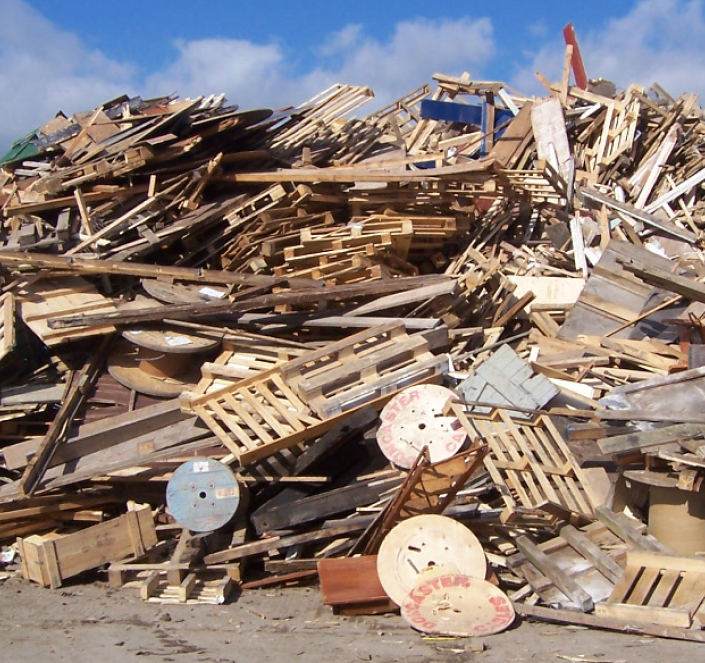
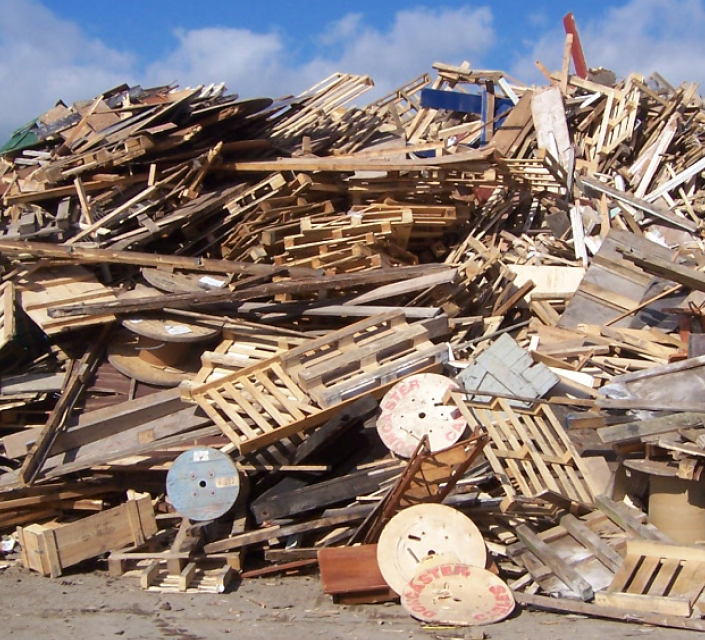
home/fundadores

diff --git a/site/src/pages/home/index.js b/site/src/pages/home/index.js
@@ -47,6 +47,7 @@ export default function Home() {
                 </div>
             </div>
 
+            <div className="linha"></div>
             <div className="desperdicio-de-madeira">
 
                 <div className="info">
@@ -60,6 +61,126 @@ export default function Home() {
                 <div className="image">
                     <img src="/assets/images/entulho.png" alt="" />
                 </div>
+
+            </div>
+            <div className="linha"></div>
+
+            <div className="cards-empresa">
+
+                <div className="madeiraRenovavel-Design">
+                    <div className="card-part">
+                        <img src="/assets/images/madeira-eco.png" alt="" />    
+                        <h1>Madeira Renovável</h1>
+                        <p>Utilizamos madeiras provenientes de demolições, sobras de produção ou móveis antigos que podem ser reutilizados.</p>
+                    </div>
+
+                    <div className="card-part">
+                        <img src="/assets/images/troncos.png" alt="" />    
+                        <h1>Design Sustenável</h1>
+                        <p>Desenvolvemos móveis com design sustentável, levando em consideração a durabilidade, a facilidade de manutenção e a possibilidade de desmontagem para reciclagem futura.</p>
+                    </div>
+                </div>
+
+                <div className="projetos-visao-certificacoes">
+                    <div>
+                        <img src="/assets/images/florestasPlantadas.png" alt="" />
+                        <h1>Projetos Concluídos:</h1>
+                        <p>Ao longo dos anos, tivemos o privilégio de participar de diversos projetos emocionantes, ajudando nossos clientes a transformarem suas visões em realidade. Nossos produtos de madeira sustentável foram utilizados em residências, escritórios, estabelecimentos comerciais e espaços públicos, adicionando elegância e funcionalidade aos ambientes.</p>
+                    </div>
+
+                    <div>
+                        <img src="/assets/images/troncos2.png" alt="" />
+                        <h1>Visão Geral da Empresa:</h1>
+                        <p>Somos uma loja de madeira sustentável comprometida em fornecer produtos de alta qualidade, ao mesmo tempo em que promovemos a preservação das florestas e a conscientização ambiental. Nossa missão é oferecer soluções de madeira sustentável para clientes que valorizam a beleza natural, a durabilidade e a responsabilidade ambiental.</p>
+                    </div>
+
+                    <div>
+                        <img src="/assets/images/casa.png" alt="" />
+                        <h1>Certificações e Parcerias:</h1>
+                        <p>Somos orgulhosos detentores das certificações FSC e PEFC, que atestam a origem sustentável da nossa madeira. Além disso, mantemos parcerias estratégicas com organizações comprometidas com a preservação florestal e a promoção da sustentabilidade, fortalecendo ainda mais nosso compromisso com o meio ambiente.</p>
+                    </div>
+                </div>
+            </div>
+            <div className="linha"></div>
+
+            <div className="fundadores">
+
+                <h1>FUNDADORES DA EMPRESA</h1>
+
+                <div className="card-portifolio">
+                    <div>
+                        <div className="card">
+                        <span className="card-top"> 
+                        
+                        <img src="/assets/images/baixo.png" alt="" />  
+
+                            <div className="ig">
+                                <h1>Guilherme Hegeler</h1>
+                                <p>@guihegeler</p>
+                            </div>  
+                        </span>     
+
+                        <p>Guilherme Hegeler tem 17 anos e fundou uma empresa de madeira reutilizada e sustentavel</p>
+
+                        <button>Nossas Redes</button>  
+                        </div>
+
+                        <div className="card">
+                        <span className="card-top"> 
+                        
+                        <img src="/assets/images/hengler.png" alt="" />  
+
+                            <div className="ig">
+                                <h1>João Hengler</h1>
+                                <p>@joaopedrohengler</p>
+                            </div>  
+                        </span>     
+
+                        <p>João Hengler tem 17 anos e fundou uma empresa de madeira reutilizada e sustentavel</p>
+
+                        <button>Nossas Redes</button>  
+                        </div>
+                    </div>
+
+                    <div>
+                        <div className="card">
+                        <span className="card-top"> 
+                        
+                        <img src="/assets/images/kauan.png" alt="" />  
+
+                            <div className="ig">
+                                <h1>Kauan Pedro</h1>
+                                <p>@kauankk._</p>
+                            </div>  
+                        </span>     
+
+                        <p>Kauan Pedro tem 17 anos e fundou uma empresa de madeira reutilizada e sustentavel</p>
+
+                        <button>Nossas Redes</button>  
+                        </div>
+
+                        <div className="card">
+                        <span className="card-top"> 
+                        
+                        <img src="/assets/images/mesquita.png" alt="" />  
+
+                            <div className="ig">
+                                <h1>João Mesquita</h1>
+                                <p>@mesquit_</p>
+                            </div>  
+                        </span>     
+
+                        <p>João Mesquita tem 17 anos e fundou uma empresa de madeira reutilizada e sustentavel</p>
+
+                        <button>Nossas Redes</button>   
+                        </div>
+                    </div>
+                </div>
+
+            </div>
+            <div className="linha"></div>
+
+            <div className="sobre-nos">
 
             </div>
         </div>

diff --git a/site/src/pages/home/index.scss b/site/src/pages/home/index.scss
@@ -134,14 +134,13 @@
         justify-content: center;
         align-items: start;
 
-        border-top: 19px #fff solid;
-        border-bottom: 19px #fff solid;
-
-
         .image {
+
+            height: 70vh;
+
             img {
-                height: auto;
-                width: 50vw;
+                height: 70vh;
+                width: 40vw;
             }
         }
 
@@ -150,7 +149,9 @@
             flex-direction: column;
             align-items: center;
             background-color: #f1f1f1;
-            padding: 100px 30px 192px;
+            padding: 100px 30px;
+            height: 70vh;
+            width: 60vw;
 
             gap: 20px;
 
@@ -159,6 +160,7 @@
                 font-size: 16px;
                 text-align: left;
                 margin: 15px 0px;
+                width: 600px;
 
                 font-family: 'MontSerrat', sans-serif;
             }
@@ -184,5 +186,187 @@
                 border: none;
             }
          }
+
     }
+
+    .linha {
+        background-color: #fff;
+        width: 100%;
+        height: 10px;
+        box-shadow: 0px 2px 5px 2px rgba(0, 0, 0, 0.1);
+        position: relative;
+        z-index: 20;
+    }
+
+    .cards-empresa {
+        display: flex;
+        flex-direction: column;
+        align-items: center;
+
+        background-color: #b6b6b6;
+
+        .projetos-visao-certificacoes {
+            display: flex;
+            flex-direction: row;
+            justify-content: space-evenly;
+
+            width: 80vw;
+            margin: 80px 0px;
+
+            div {
+                display: flex;
+                flex-direction: column;
+                text-align: left;
+
+                background-color: #fff;
+                padding: 10px;
+                box-shadow: 0px 2px 5px 0px rgba(0, 0, 0, 0.247);
+
+                h1 {
+                    font-family: 'MontSerrat', sans-serif;
+                    font-weight: 600;
+                    font-size: 20px;
+                    margin: 10px 0px;
+                }
+
+                p {
+                    margin: 0px 0px 10px;
+                    font-family: 'MontSerrat', sans-serif;
+                    font-weight: 500;
+                    font-size: 12px;
+                    width: 350px;
+                }
+            }
+
+
+        }
+
+        .madeiraRenovavel-Design {
+            margin: 80px 0px 0px;
+            padding: 35px;
+            border-radius: 10px;
+
+            display: flex;
+            flex-direction: row;
+            justify-content: space-between;
+
+            background-color: #ffffff;
+            box-shadow: 0px 2px 5px 0px rgba(0, 0, 0, 0.247);
+            width: 60vw;
+            
+            .card-part {
+                display: flex;
+                flex-direction: column;
+                align-items: center;
+                text-align: center;
+
+                img {
+                    height: auto;
+                    width: 400px;
+                    margin: 0px 0px 10px;
+                    border-radius: 8px;
+                    box-shadow: 0px 2px 5px 0px rgba(0, 0, 0, 0.247);
+                }
+
+                p {
+                    width: 350px;
+                    margin: 10px 0px;
+                    font-family: 'MontSerrat', sans-serif;
+                    font-weight: 400;
+                    font-size: 14px;
+                }
+
+                h1 {
+                    font-family: 'MontSerrat', sans-serif;
+                    font-weight: 600;
+                    font-size: 22px;
+                }
+            }
+
+        }
+     }
+
+     .fundadores {
+        display: flex;
+        flex-direction: column;
+        align-items: center;
+        background-color: #C57D56;
+        height: 100%;
+
+        > h1 {
+            margin: 100px 0px 10px;
+            font-family: 'MontSerrat', sans-serif;
+            font-weight: 700;
+            color: white;
+            font-size: 50px;
+        }
+
+        .card-portifolio {
+            display: flex;
+            justify-content: center;
+            align-items: center;
+            margin-bottom: 90px;
+
+            div {
+
+                .card {
+                    display: flex;
+                    flex-direction: column;
+                    align-items: center;
+                    justify-content: space-between;
+                    
+
+                    background-color: white;
+                    margin: 20px 10px;
+                    padding: 30px 20px;
+                    width: 350px;
+                    height: 350px;
+                    border-radius: 10px;
+
+                    > p {
+                        font-family: 'MontSerrat', sans-serif;
+                        font-size: 14px;
+                        font-weight: 700;
+                        color: rgb(42, 42, 42, 50%);
+                        width: 250px;
+                    }
+
+                    button {
+                        background-color: #2a2a2a;
+                        border: none;
+                        padding: 15px 30px;
+                        color: #fff;
+
+                        font-family: 'MontSerrat', sans-serif;
+                        letter-spacing: 2px;
+                        border-radius: 20px;
+                        font-weight: 500;
+                    }
+
+                    .card-top {
+                        display: flex;
+                        flex-direction: row;
+
+                        gap: 10px;
+
+                        img {
+                            height: 60px;
+                        }
+
+                        h1 {
+                            font-family: 'MontSerrat', sans-serif;
+                            font-size: 20px;
+                        }
+
+                        p {
+                            font-family: 'MontSerrat', sans-serif;
+                            font-size: 14px;
+                            font-weight: 700;
+                            color: rgb(42, 42, 42, 50%);
+                        }
+                    }
+                }
+            }
+        }
+     }
 }
